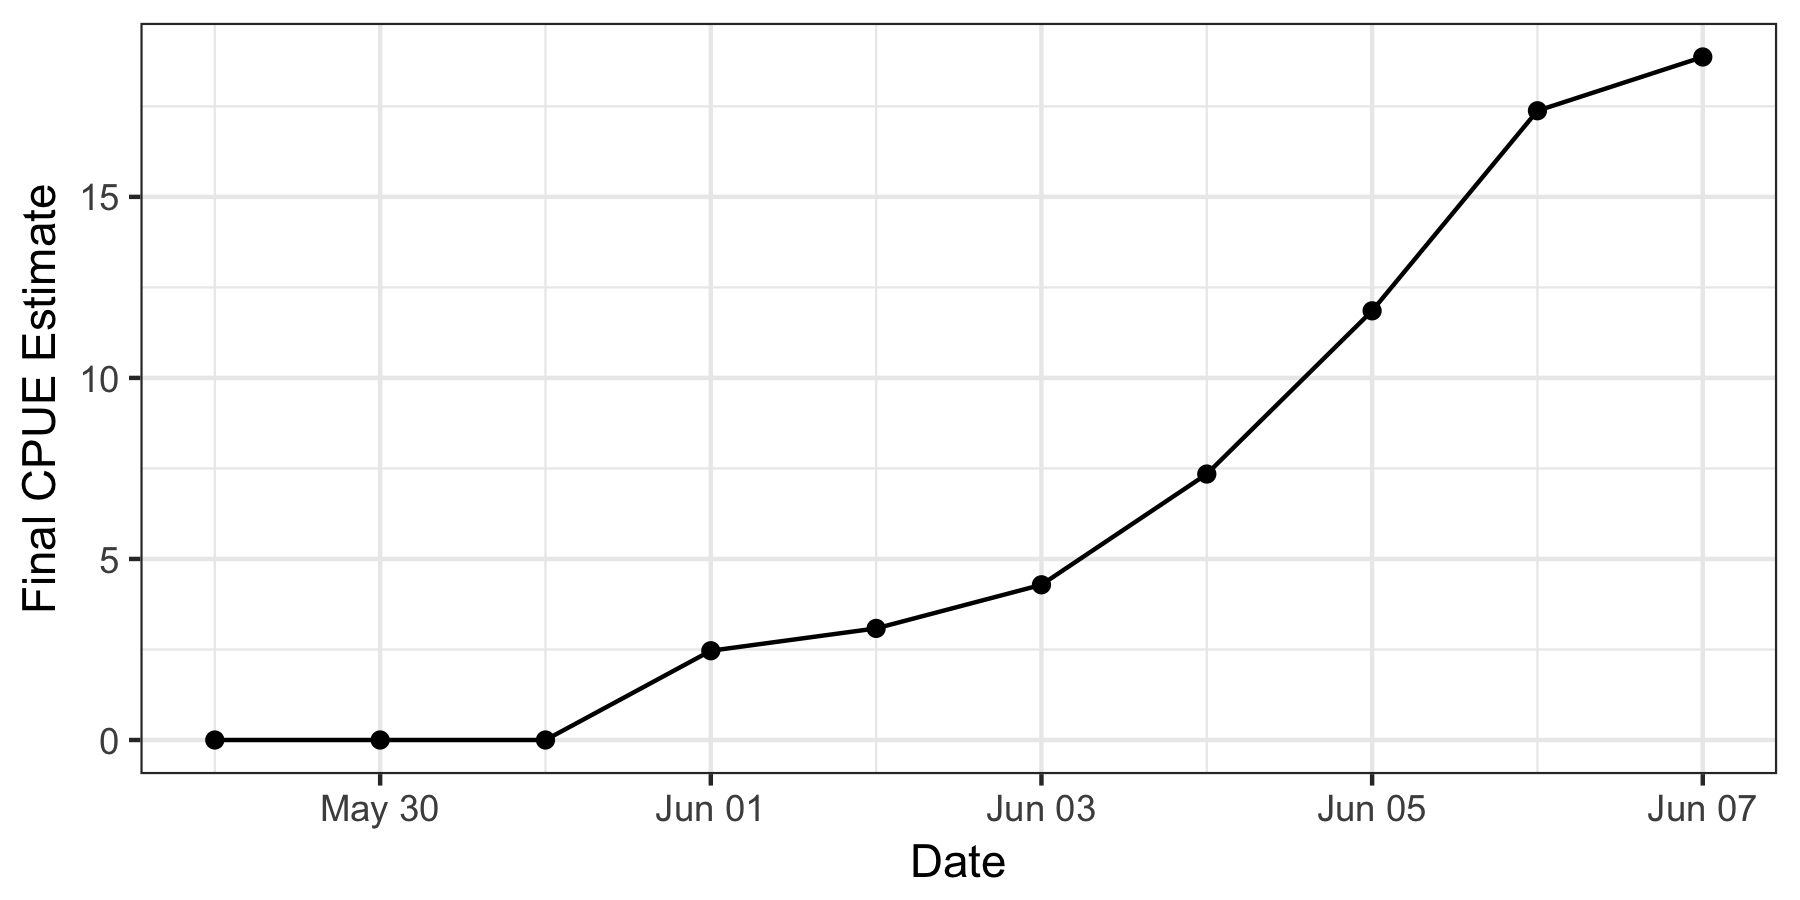
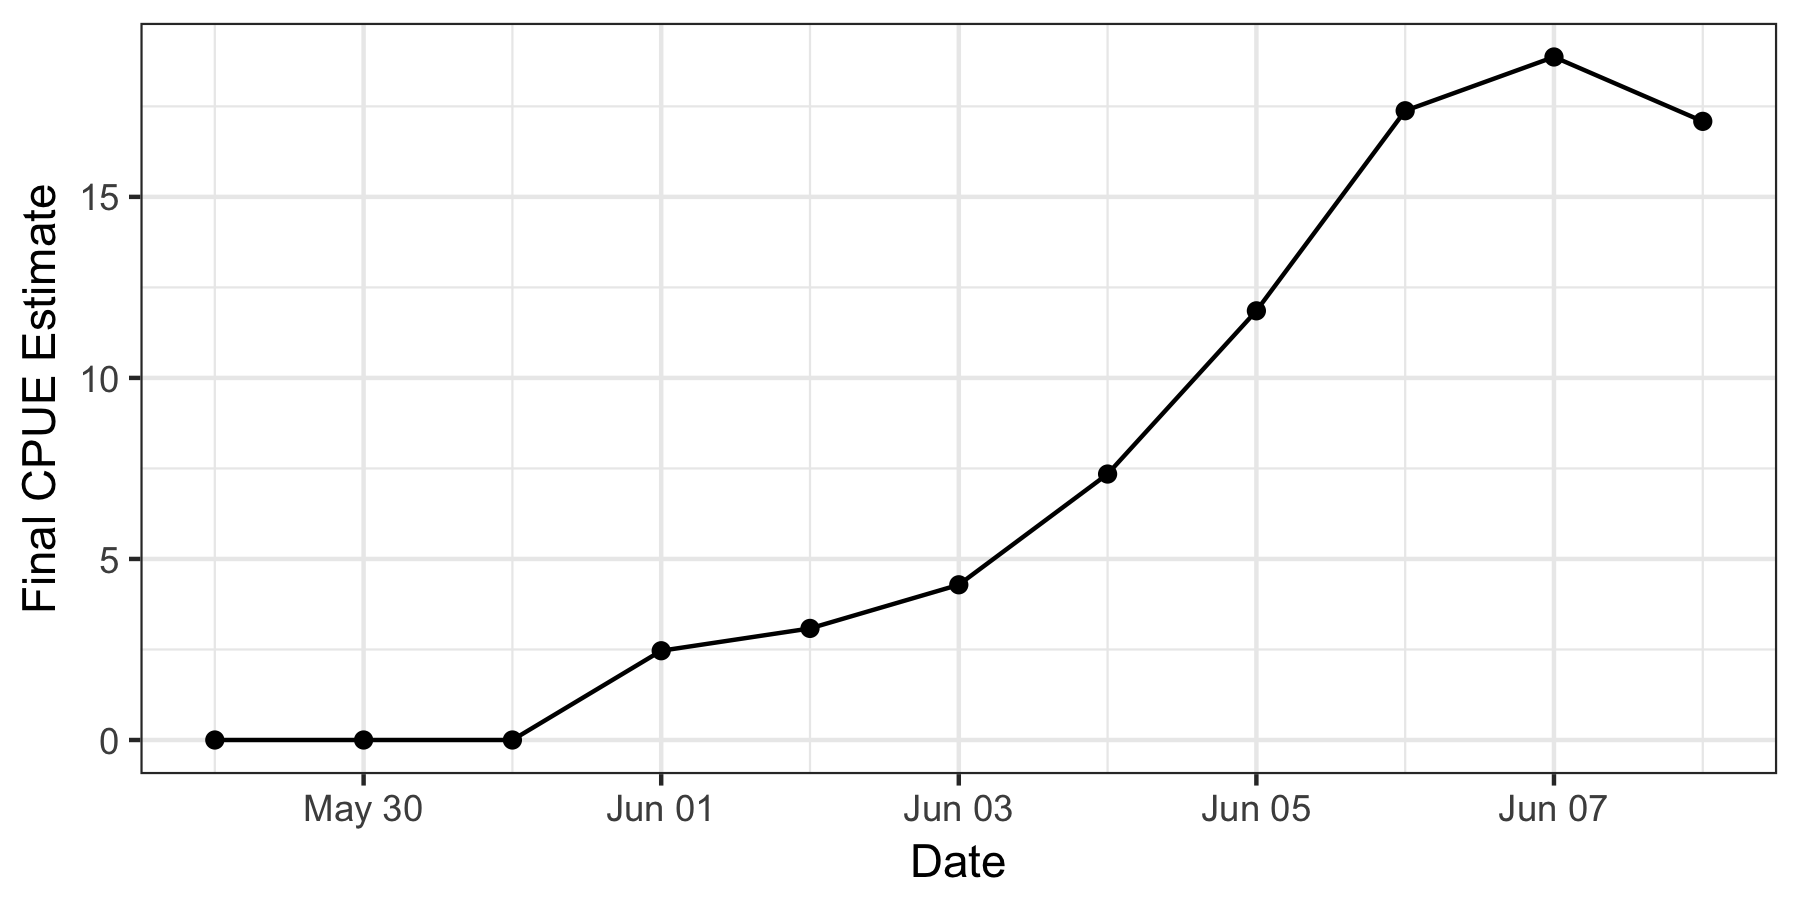
Update forecast for June 9th

diff --git a/README.md b/README.md
@@ -1,2 +1,46 @@
-# 2017-yukon-forecasting
-Data, code, and output for the 2017 operational forecast of Yukon River Chinook salmon run timing
+2017-yukon-forecasting
+======================
+
+Data, code, and output for the 2017 operational forecast of Yukon River
+Chinook salmon run timing
+
+Forecasted Timing of Percentiles of Cumulative CPUE
+---------------------------------------------------
+
+<table>
+<thead>
+<tr class="header">
+<th align="left">Percentile</th>
+<th align="right">Predicted Date (Day of June)</th>
+</tr>
+</thead>
+<tbody>
+<tr class="odd">
+<td align="left">15%</td>
+<td align="right">10</td>
+</tr>
+<tr class="even">
+<td align="left">25%</td>
+<td align="right">13</td>
+</tr>
+<tr class="odd">
+<td align="left">50%</td>
+<td align="right">19</td>
+</tr>
+</tbody>
+</table>
+
+### Latest Daily Forecast
+
+The red line should match the black line pretty well when the forecast
+is reasonable.
+
+![](daily_forecast/daily_forecast.png)
+
+### Final CPUE Heuristic
+
+This line should be erratic early on in the run by smooth out and
+oscillate around a single value of final CPUE when the forecast is
+reasonable.
+
+![](daily_forecast/final_cpue.png)
